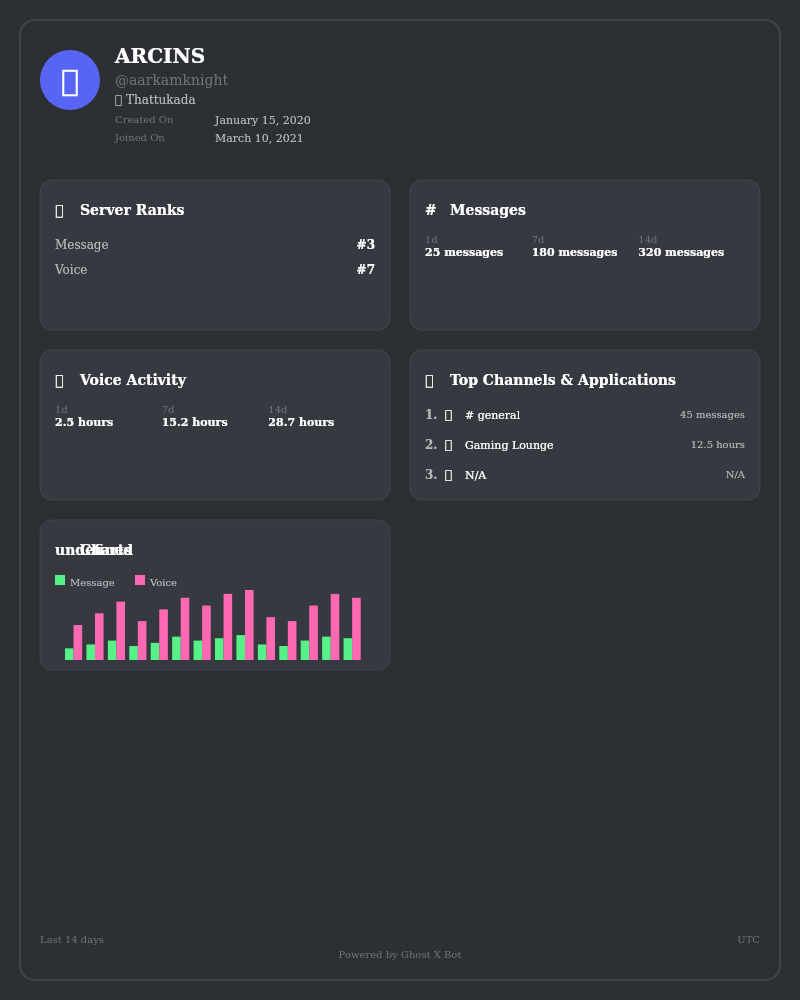
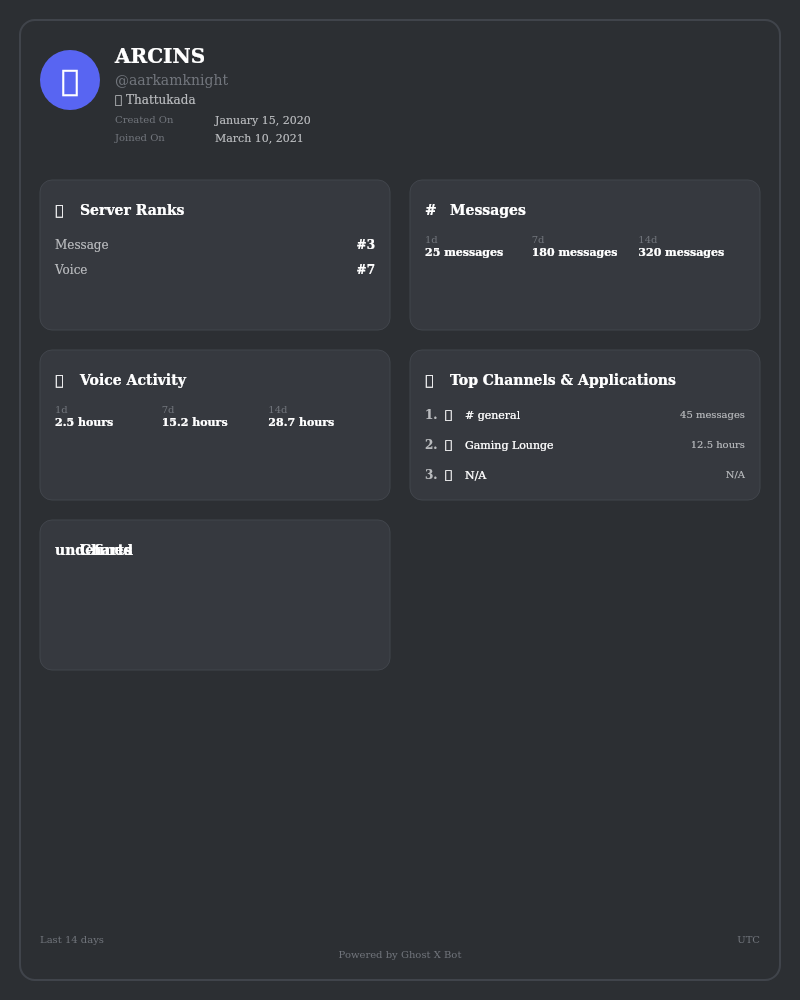
3.0.8

Changed region(s): [[0.0625, 0.558, 0.4688, 0.682], [0.0625, 0.558, 0.125, 0.589]]

diff --git a/src/user-card.ts b/src/user-card.ts
@@ -64,25 +64,14 @@ export interface RankedItem {
     value: string;
 }
 
-export interface ChartLegend {
-    label: string;
-    color: string;
-}
-
-export interface ChartData {
-    message: number[];
-    voice: number[];
-}
 
 export interface Panel {
     id: string;
     title: string;
     icon: string;
-    type: 'list' | 'statistics' | 'rankedList' | 'graph';
+    type: 'list' | 'statistics' | 'rankedList';
     items?: (ServerRank | RankedItem)[];
     stats?: Statistic[];
-    legend?: ChartLegend[];
-    data?: ChartData;
 }
 
 export interface UserCardOptions {
@@ -207,9 +196,6 @@ const drawPanel = (ctx: any, x: number, y: number, width: number, height: number
         case 'rankedList':
             drawRankedListPanel(ctx, contentX, contentStartY, contentWidth, panel.items as RankedItem[]);
             break;
-        case 'graph':
-            drawGraphPanel(ctx, contentX, contentStartY, contentWidth, height - 50, panel.legend as ChartLegend[], panel.data as ChartData);
-            break;
     }
 };
 
@@ -286,50 +272,6 @@ const drawRankedListPanel = (ctx: any, x: number, y: number, width: number, item
     });
 };
 
-// Draw graph panel
-const drawGraphPanel = (ctx: any, x: number, y: number, width: number, height: number, legend: ChartLegend[], data: ChartData) => {
-    const graphHeight = height - 30;
-    const graphY = y + 20;
-    const graphWidth = width - 20;
-    
-    // Draw legend
-    legend.forEach((item, index) => {
-        const legendX = x + (index * 80);
-        const legendY = y + 5;
-        
-        // Color indicator
-        ctx.fillStyle = item.color === 'green' ? USER_CARD_PALETTE.SECONDARY : '#ff69b4';
-        ctx.fillRect(legendX, legendY, 10, 10);
-        
-        // Label
-        ctx.fillStyle = USER_CARD_PALETTE.TEXT_SECONDARY;
-        ctx.font = '10px Arial';
-        ctx.textAlign = 'left';
-        ctx.fillText(item.label, legendX + 15, legendY + 8);
-    });
-    
-    // Draw simple bar chart
-    const barWidth = graphWidth / data.message.length;
-    const maxValue = Math.max(...data.message, ...data.voice);
-    
-    data.message.forEach((value, index) => {
-        const barX = x + 10 + (index * barWidth);
-        const barHeight = (value / maxValue) * graphHeight;
-        const barY = graphY + graphHeight - barHeight;
-        
-        // Message bar
-        ctx.fillStyle = USER_CARD_PALETTE.SECONDARY;
-        ctx.fillRect(barX, barY, barWidth * 0.4, barHeight);
-        
-        // Voice bar
-        const voiceValue = data.voice[index] || 0;
-        const voiceHeight = (voiceValue / maxValue) * graphHeight;
-        const voiceY = graphY + graphHeight - voiceHeight;
-        
-        ctx.fillStyle = '#ff69b4';
-        ctx.fillRect(barX + barWidth * 0.4, voiceY, barWidth * 0.4, voiceHeight);
-    });
-};
 
 // Main user card generator
 export const UserCard = async (options: UserCardOptions): Promise<Buffer> => {

diff --git a/dist/index.js b/dist/index.js
@@ -860,9 +860,6 @@ var drawPanel = (ctx, x, y, width, height, panel) => {
     case "rankedList":
       drawRankedListPanel(ctx, contentX, contentStartY, contentWidth, panel.items);
       break;
-    case "graph":
-      drawGraphPanel(ctx, contentX, contentStartY, contentWidth, height - 50, panel.legend, panel.data);
-      break;
   }
 };
 var drawListPanel = (ctx, x, y, width, items) => {
@@ -913,35 +910,6 @@ var drawRankedListPanel = (ctx, x, y, width, items) => {
     ctx.font = "10px Arial";
     ctx.textAlign = "right";
     ctx.fillText(item.value, x + width, itemY + 15);
-  });
-};
-var drawGraphPanel = (ctx, x, y, width, height, legend, data) => {
-  const graphHeight = height - 30;
-  const graphY = y + 20;
-  const graphWidth = width - 20;
-  legend.forEach((item, index) => {
-    const legendX = x + index * 80;
-    const legendY = y + 5;
-    ctx.fillStyle = item.color === "green" ? USER_CARD_PALETTE.SECONDARY : "#ff69b4";
-    ctx.fillRect(legendX, legendY, 10, 10);
-    ctx.fillStyle = USER_CARD_PALETTE.TEXT_SECONDARY;
-    ctx.font = "10px Arial";
-    ctx.textAlign = "left";
-    ctx.fillText(item.label, legendX + 15, legendY + 8);
-  });
-  const barWidth = graphWidth / data.message.length;
-  const maxValue = Math.max(...data.message, ...data.voice);
-  data.message.forEach((value, index) => {
-    const barX = x + 10 + index * barWidth;
-    const barHeight = value / maxValue * graphHeight;
-    const barY = graphY + graphHeight - barHeight;
-    ctx.fillStyle = USER_CARD_PALETTE.SECONDARY;
-    ctx.fillRect(barX, barY, barWidth * 0.4, barHeight);
-    const voiceValue = data.voice[index] || 0;
-    const voiceHeight = voiceValue / maxValue * graphHeight;
-    const voiceY = graphY + graphHeight - voiceHeight;
-    ctx.fillStyle = "#ff69b4";
-    ctx.fillRect(barX + barWidth * 0.4, voiceY, barWidth * 0.4, voiceHeight);
   });
 };
 var UserCard = async (options) => {

diff --git a/dist/index.d.ts b/dist/index.d.ts
@@ -180,23 +180,13 @@ interface RankedItem {
     name: string | null;
     value: string;
 }
-interface ChartLegend {
-    label: string;
-    color: string;
-}
-interface ChartData {
-    message: number[];
-    voice: number[];
-}
 interface Panel {
     id: string;
     title: string;
     icon: string;
-    type: 'list' | 'statistics' | 'rankedList' | 'graph';
+    type: 'list' | 'statistics' | 'rankedList';
     items?: (ServerRank | RankedItem)[];
     stats?: Statistic[];
-    legend?: ChartLegend[];
-    data?: ChartData;
 }
 interface UserCardOptions {
     theme?: 'dark' | 'light';
@@ -233,4 +223,4 @@ type PixelOption = {
 };
 declare const Pixel: (option: PixelOption) => Promise<Buffer>;
 
-export { type AccountDetail, type ActivityData, type ChartData, type ChartLegend, type Database, DatabaseHelper, type GuildStats, GuildStatus, type GuildStatusOptions, type MessageData, type Panel, Pixel, PixelJapanese, type PixelOption, type RankedItem, type ServerRank, type Statistic, UserCard, type UserCardOptions, type UserData, type UserInfo, type VoiceSession, type VoiceTimeData, createGuildStats };
+export { type AccountDetail, type ActivityData, type Database, DatabaseHelper, type GuildStats, GuildStatus, type GuildStatusOptions, type MessageData, type Panel, Pixel, PixelJapanese, type PixelOption, type RankedItem, type ServerRank, type Statistic, UserCard, type UserCardOptions, type UserData, type UserInfo, type VoiceSession, type VoiceTimeData, createGuildStats };

diff --git a/example-user-card.js b/example-user-card.js
@@ -130,10 +130,6 @@ const mockUserCardData = {
                             color: "pink"
                         }
                     ],
-                    data: {
-                        message: [15, 20, 25, 18, 22, 30, 25, 28, 32, 20, 18, 25, 30, 28],
-                        voice: [45, 60, 75, 50, 65, 80, 70, 85, 90, 55, 50, 70, 85, 80]
-                    }
                 }
             ]
         },

diff --git a/usercard.md b/usercard.md
@@ -1,0 +1,183 @@
+# User Card Documentation
+
+The User Card feature generates a customizable Discord-style profile card that displays user information, statistics, and achievements.
+
+## Usage Example
+
+```javascript
+const { UserCard } = require('pixel-musicard');
+
+const userCardOptions = {
+    theme: 'dark',
+    font: 'sans-serif',
+    backgroundColor: '#2c2f33',
+    container: {
+        header: {
+            userInfo: {
+                avatar: 'https://cdn.discordapp.com/avatars/123456789/avatar.png',
+                displayName: 'Cool User',
+                username: 'cooluser123',
+                customStatus: {
+                    emoji: '🎮',
+                    text: 'Playing Games'
+                }
+            },
+            accountDetails: [
+                { label: 'Joined', value: 'Jan 1, 2024' },
+                { label: 'Role', value: 'Administrator' }
+            ]
+        },
+        body: {
+            layout: 'grid',
+            panels: [
+                {
+                    id: 'server-ranks',
+                    title: 'Server Ranks',
+                    icon: '👑',
+                    type: 'list',
+                    items: [
+                        { category: 'Messages', rank: '#1' },
+                        { category: 'Voice Time', rank: '#2' }
+                    ]
+                },
+                {
+                    id: 'activity',
+                    title: 'Activity',
+                    icon: '📊',
+                    type: 'statistics',
+                    stats: [
+                        { period: 'Today', value: '150 msgs' },
+                        { period: 'Week', value: '1.2K msgs' },
+                        { period: 'Month', value: '5.5K msgs' }
+                    ]
+                },
+                {
+                    id: 'top-channels',
+                    title: 'Top Channels',
+                    icon: '📋',
+                    type: 'rankedList',
+                    items: [
+                        {
+                            rank: 1,
+                            type: 'text-channel',
+                            icon: '#⃣',
+                            name: 'general',
+                            value: '500 msgs'
+                        },
+                        {
+                            rank: 2,
+                            type: 'voice-channel',
+                            icon: '🔊',
+                            name: 'Voice Chat',
+                            value: '5h 30m'
+                        }
+                    ]
+                }
+            ]
+        },
+        footer: {
+            lookbackPeriod: 'Last 30 days',
+            timezone: 'UTC',
+            attribution: {
+                text: 'Generated by Ghost X Bot',
+                logo: '👻'
+            }
+        }
+    }
+};
+
+// Generate the user card
+const imageBuffer = await UserCard(userCardOptions);
+```
+
+## Options
+
+### Theme Options
+- `theme`: 'dark' | 'light' (default: 'dark')
+- `font`: 'sans-serif' | 'serif' | 'monospace' (default: 'sans-serif')
+- `backgroundColor`: Custom background color in hex format
+
+### Container Structure
+
+#### Header Section
+- User avatar
+- Display name
+- Username
+- Custom status (optional)
+- Account details (customizable list of label-value pairs)
+
+#### Body Section
+Supports different types of panels:
+
+1. List Panel (`type: 'list'`)
+   - Displays category-rank pairs
+   - Used for showing server rankings
+
+2. Statistics Panel (`type: 'statistics'`)
+   - Shows period-value pairs in a grid
+   - Perfect for activity statistics
+
+3. Ranked List Panel (`type: 'rankedList'`)
+   - Shows ranked items with icons and values
+   - Ideal for top channels or achievements
+
+#### Footer Section
+- Lookback period
+- Timezone
+- Attribution text and logo
+
+## Panel Types
+
+### List Panel
+```typescript
+{
+    type: 'list',
+    items: Array<{
+        category: string;
+        rank: string;
+    }>
+}
+```
+
+### Statistics Panel
+```typescript
+{
+    type: 'statistics',
+    stats: Array<{
+        period: string;
+        value: string;
+    }>
+}
+```
+
+### Ranked List Panel
+```typescript
+{
+    type: 'rankedList',
+    items: Array<{
+        rank: number;
+        type: 'text-channel' | 'voice-channel' | 'application';
+        icon: string;
+        name: string | null;
+        value: string;
+    }>
+}
+```
+
+## Customization
+
+The user card supports extensive customization through the options object. You can:
+- Change the theme and colors
+- Customize the layout
+- Add/remove panels
+- Modify text styles and formatting
+- Add custom icons and emojis
+
+## Best Practices
+
+1. Avatar URLs should be Discord CDN URLs or any valid image URL
+2. Keep display names and usernames within reasonable lengths
+3. Use appropriate emoji for status and panel icons
+4. Keep statistics and values concise and readable
+5. Use consistent formatting for time periods and values
+6. Consider mobile device visibility when adding content
